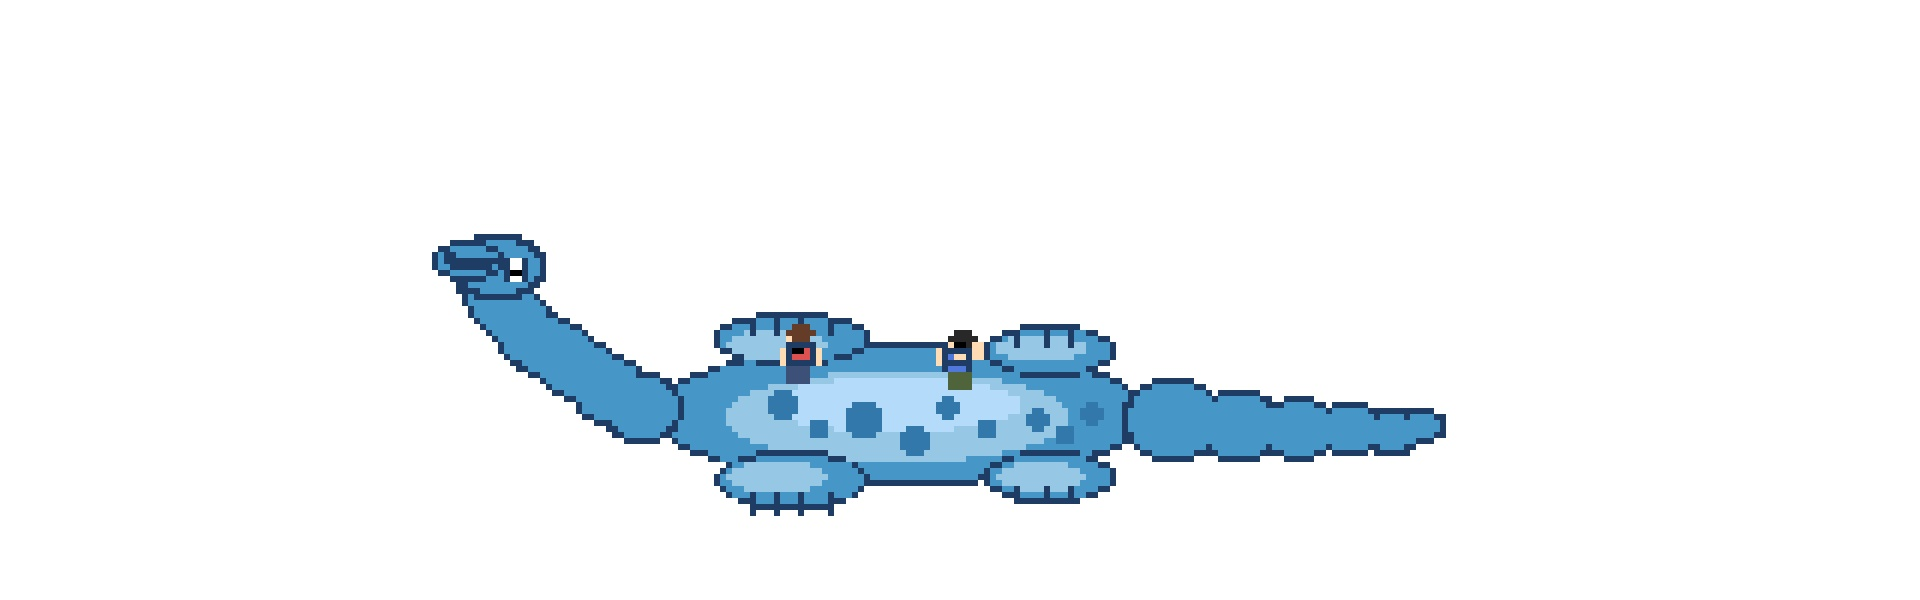
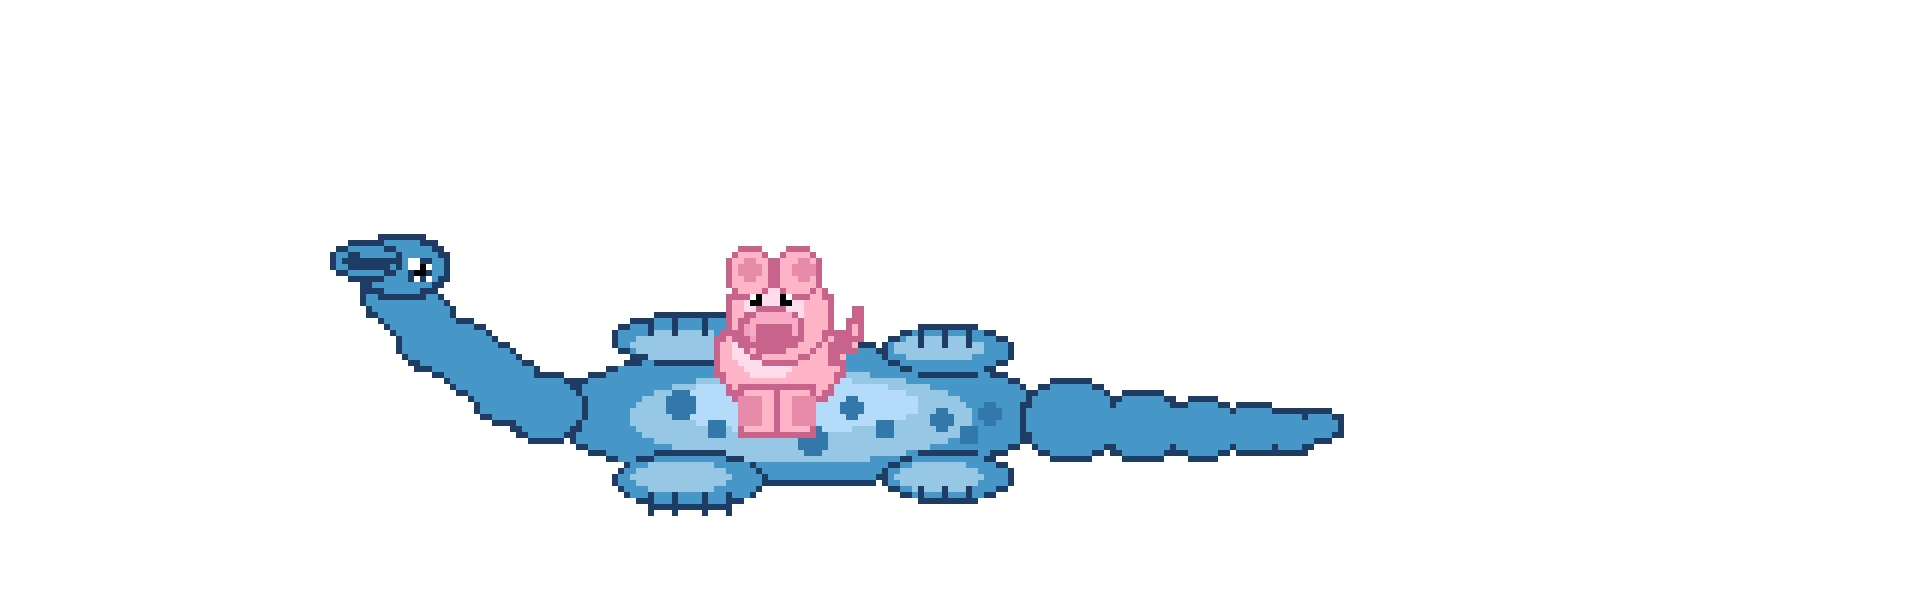
modified

Changed region(s): [[0.1562, 0.39, 0.75, 0.87]]

diff --git a/generate_plesiosaur.py b/generate_plesiosaur.py
@@ -50,7 +50,7 @@ pupil_color = (0, 0, 0)  # Black
 highlight_color = (180, 220, 250)  # Light highlight
 
 # Plesiosaur position (moved left, wider and flatter)
-base_x = width // 2 - 550
+base_x = width // 2 - 650
 base_y = height // 2 + 20
 
 # Draw body (main torso) with outline - wider and flatter, more streamlined
@@ -205,63 +205,96 @@ small_spots = [
 for spot in small_spots:
     draw_pixel_ellipse(spot[0], spot[1], spot[2], spot[3], spot_color)
 
-# Draw two little people riding on the plesiosaur's back
-# Person colors
-skin_color = (255, 220, 180)
-hair_color_1 = (100, 60, 40)  # Brown hair
-hair_color_2 = (40, 40, 40)   # Dark hair
-shirt_color_1 = (220, 80, 80)  # Red shirt
-shirt_color_2 = (80, 120, 220) # Blue shirt
-pants_color_1 = (60, 80, 120)  # Blue pants
-pants_color_2 = (80, 100, 60)  # Green pants
+# Draw a cute little pig riding on the plesiosaur's back
+# Pig colors
+pig_body_color = (255, 180, 200)  # Pink
+pig_dark_color = (230, 140, 170)  # Dark pink
+pig_light_color = (255, 220, 235)  # Light pink
+pig_snout_color = (240, 160, 190)  # Snout pink
+pig_outline = (200, 100, 140)  # Pink outline
 
-# Person 1 - sitting on front part of body
-person1_x = body_x + 120
-person1_y = body_y - 15
+# Pig position - sitting in the middle of the plesiosaur's back
+pig_x = body_x + 160
+pig_y = body_y - 80
 
-# Person 1 - legs
-draw_pixel_rect(person1_x + 8, person1_y + 30, 12, 24, pants_color_1)
-draw_pixel_rect(person1_x + 22, person1_y + 30, 12, 24, pants_color_1)
-# Person 1 - body/shirt
-draw_pixel_rect(person1_x + 6, person1_y + 12, 30, 20, shirt_color_1)
-# Person 1 - arms
-draw_pixel_rect(person1_x, person1_y + 14, 8, 18, skin_color)
-draw_pixel_rect(person1_x + 34, person1_y + 14, 8, 18, skin_color)
-# Person 1 - head
-draw_pixel_ellipse(person1_x + 10, person1_y, 22, 22, skin_color)
-# Person 1 - hair
-draw_pixel_ellipse(person1_x + 8, person1_y - 6, 26, 14, hair_color_1)
-# Person 1 - eyes
-draw_pixel_rect(person1_x + 14, person1_y + 8, 4, 4, (0, 0, 0))
-draw_pixel_rect(person1_x + 22, person1_y + 8, 4, 4, (0, 0, 0))
-# Person 1 - smile
-draw_pixel_rect(person1_x + 14, person1_y + 15, 12, pixel_size, (0, 0, 0))
-# Person 1 - outline
-draw_pixel_outline(person1_x + 6, person1_y + 12, 30, 20, outline_color, pixel_size)
+# Pig body (rounded, chubby body) - even larger size
+body_w, body_h = 120, 100
+draw_pixel_ellipse(pig_x - pixel_size, pig_y + 40 - pixel_size, body_w + pixel_size*2, body_h + pixel_size*2, pig_outline)
+draw_pixel_ellipse(pig_x, pig_y + 40, body_w, body_h, pig_body_color)
+# Body highlight
+draw_pixel_ellipse(pig_x + 16, pig_y + 48, 70, 56, pig_light_color)
 
-# Person 2 - sitting on back part of body
-person2_x = body_x + 280
-person2_y = body_y - 12
+# Pig head (large, round head) - even larger size
+head_w, head_h = 96, 88
+draw_pixel_ellipse(pig_x + 12 - pixel_size, pig_y - pixel_size, head_w + pixel_size*2, head_h + pixel_size*2, pig_outline)
+draw_pixel_ellipse(pig_x + 12, pig_y, head_w, head_h, pig_body_color)
+# Head highlight
+draw_pixel_ellipse(pig_x + 24, pig_y + 8, 60, 52, pig_light_color)
 
-# Person 2 - legs
-draw_pixel_rect(person2_x + 8, person2_y + 30, 12, 24, pants_color_2)
-draw_pixel_rect(person2_x + 22, person2_y + 30, 12, 24, pants_color_2)
-# Person 2 - body/shirt
-draw_pixel_rect(person2_x + 6, person2_y + 12, 30, 20, shirt_color_2)
-# Person 2 - arms (waving)
-draw_pixel_rect(person2_x, person2_y + 14, 8, 18, skin_color)
-draw_pixel_rect(person2_x + 34, person2_y + 4, 8, 18, skin_color)  # Right arm raised
-# Person 2 - head
-draw_pixel_ellipse(person2_x + 10, person2_y, 22, 22, skin_color)
-# Person 2 - hair
-draw_pixel_ellipse(person2_x + 8, person2_y - 6, 26, 14, hair_color_2)
-# Person 2 - eyes
-draw_pixel_rect(person2_x + 14, person2_y + 8, 4, 4, (0, 0, 0))
-draw_pixel_rect(person2_x + 22, person2_y + 8, 4, 4, (0, 0, 0))
-# Person 2 - smile
-draw_pixel_rect(person2_x + 14, person2_y + 15, 12, pixel_size, (0, 0, 0))
-# Person 2 - outline
-draw_pixel_outline(person2_x + 6, person2_y + 12, 30, 20, outline_color, pixel_size)
+# Pig snout (distinctive pig nose) - much larger and more prominent
+snout_x, snout_y = pig_x + 28, pig_y + 44
+draw_pixel_ellipse(snout_x - pixel_size, snout_y - pixel_size, 52 + pixel_size*2, 36 + pixel_size*2, pig_outline)
+draw_pixel_ellipse(snout_x, snout_y, 52, 36, pig_snout_color)
+# Add inner snout detail for more depth
+draw_pixel_ellipse(snout_x + 4, snout_y + 3, 44, 28, (250, 170, 195))
+# Nostrils - much larger and more visible
+draw_pixel_ellipse(snout_x + 12, snout_y + 12, pixel_size*3, pixel_size*4, pig_outline)
+draw_pixel_ellipse(snout_x + 28, snout_y + 12, pixel_size*3, pixel_size*4, pig_outline)
+
+# Pig ears (triangular, floppy ears) - larger size
+# Left ear
+ear_left_x, ear_left_y = pig_x + 16, pig_y - 16
+draw_pixel_ellipse(ear_left_x - pixel_size, ear_left_y - pixel_size, 32 + pixel_size*2, 40 + pixel_size*2, pig_outline)
+draw_pixel_ellipse(ear_left_x, ear_left_y, 32, 40, pig_body_color)
+draw_pixel_ellipse(ear_left_x + 4, ear_left_y + 4, 20, 24, pig_dark_color)
+
+# Right ear
+ear_right_x, ear_right_y = pig_x + 64, pig_y - 16
+draw_pixel_ellipse(ear_right_x - pixel_size, ear_right_y - pixel_size, 32 + pixel_size*2, 40 + pixel_size*2, pig_outline)
+draw_pixel_ellipse(ear_right_x, ear_right_y, 32, 40, pig_body_color)
+draw_pixel_ellipse(ear_right_x + 8, ear_right_y + 4, 20, 24, pig_dark_color)
+
+# Pig eyes (cute eyes) - larger size
+eye_left_x, eye_left_y = pig_x + 32, pig_y + 24
+draw_pixel_rect(eye_left_x, eye_left_y, 12, 12, (0, 0, 0))
+draw_pixel_rect(eye_left_x + 3, eye_left_y + 3, 4, 4, (255, 255, 255))  # Eye shine
+
+eye_right_x, eye_right_y = pig_x + 64, pig_y + 24
+draw_pixel_rect(eye_right_x, eye_right_y, 12, 12, (0, 0, 0))
+draw_pixel_rect(eye_right_x + 3, eye_right_y + 3, 4, 4, (255, 255, 255))  # Eye shine
+
+# Pig legs (short, stubby legs) - larger size
+# Front left leg
+leg_fl_x, leg_fl_y = pig_x + 24, pig_y + 120
+draw_pixel_rect(leg_fl_x - pixel_size, leg_fl_y - pixel_size, 28 + pixel_size*2, 40 + pixel_size*2, pig_outline)
+draw_pixel_rect(leg_fl_x, leg_fl_y, 28, 40, pig_body_color)
+
+# Front right leg
+leg_fr_x, leg_fr_y = pig_x + 64, pig_y + 120
+draw_pixel_rect(leg_fr_x - pixel_size, leg_fr_y - pixel_size, 28 + pixel_size*2, 40 + pixel_size*2, pig_outline)
+draw_pixel_rect(leg_fr_x, leg_fr_y, 28, 40, pig_body_color)
+
+# Back legs (partially visible behind body)
+# Back left leg
+leg_bl_x, leg_bl_y = pig_x + 20, pig_y + 128
+draw_pixel_rect(leg_bl_x, leg_bl_y, 20, 28, pig_dark_color)
+
+# Back right leg
+leg_br_x, leg_br_y = pig_x + 76, pig_y + 128
+draw_pixel_rect(leg_br_x, leg_br_y, 20, 28, pig_dark_color)
+
+# Pig tail (curly tail) - larger size
+tail_x, tail_y = pig_x + 108, pig_y + 72
+# Tail segments forming a curl
+tail_segments = [
+    (tail_x, tail_y, 16, 24),
+    (tail_x + 12, tail_y - 8, 16, 24),
+    (tail_x + 20, tail_y - 20, 16, 20),
+    (tail_x + 24, tail_y - 32, 12, 16),
+]
+for seg in tail_segments:
+    draw_pixel_ellipse(seg[0], seg[1], seg[2], seg[3], pig_body_color)
+    draw_pixel_outline(seg[0], seg[1], seg[2], seg[3], pig_outline, pixel_size)
 
 # Ensure pure white background by filling any gaps
 # (The background is already white from initialization, this is just to be sure)
